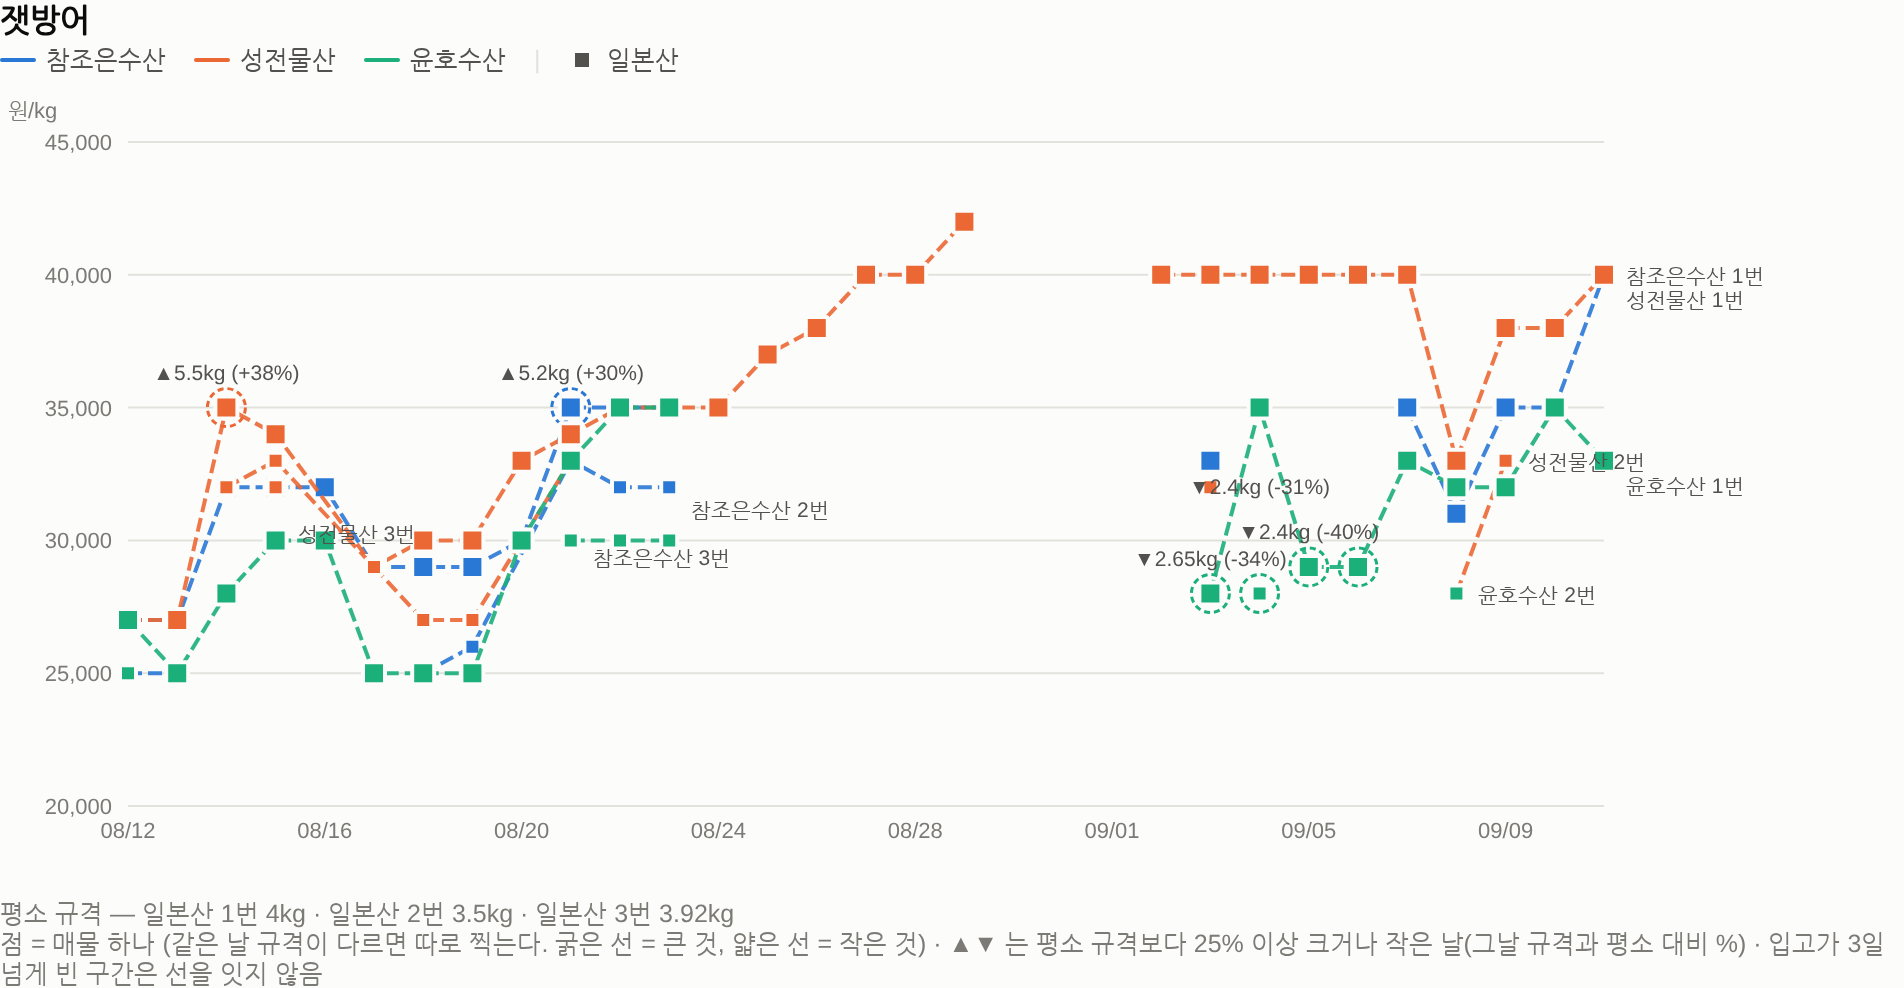
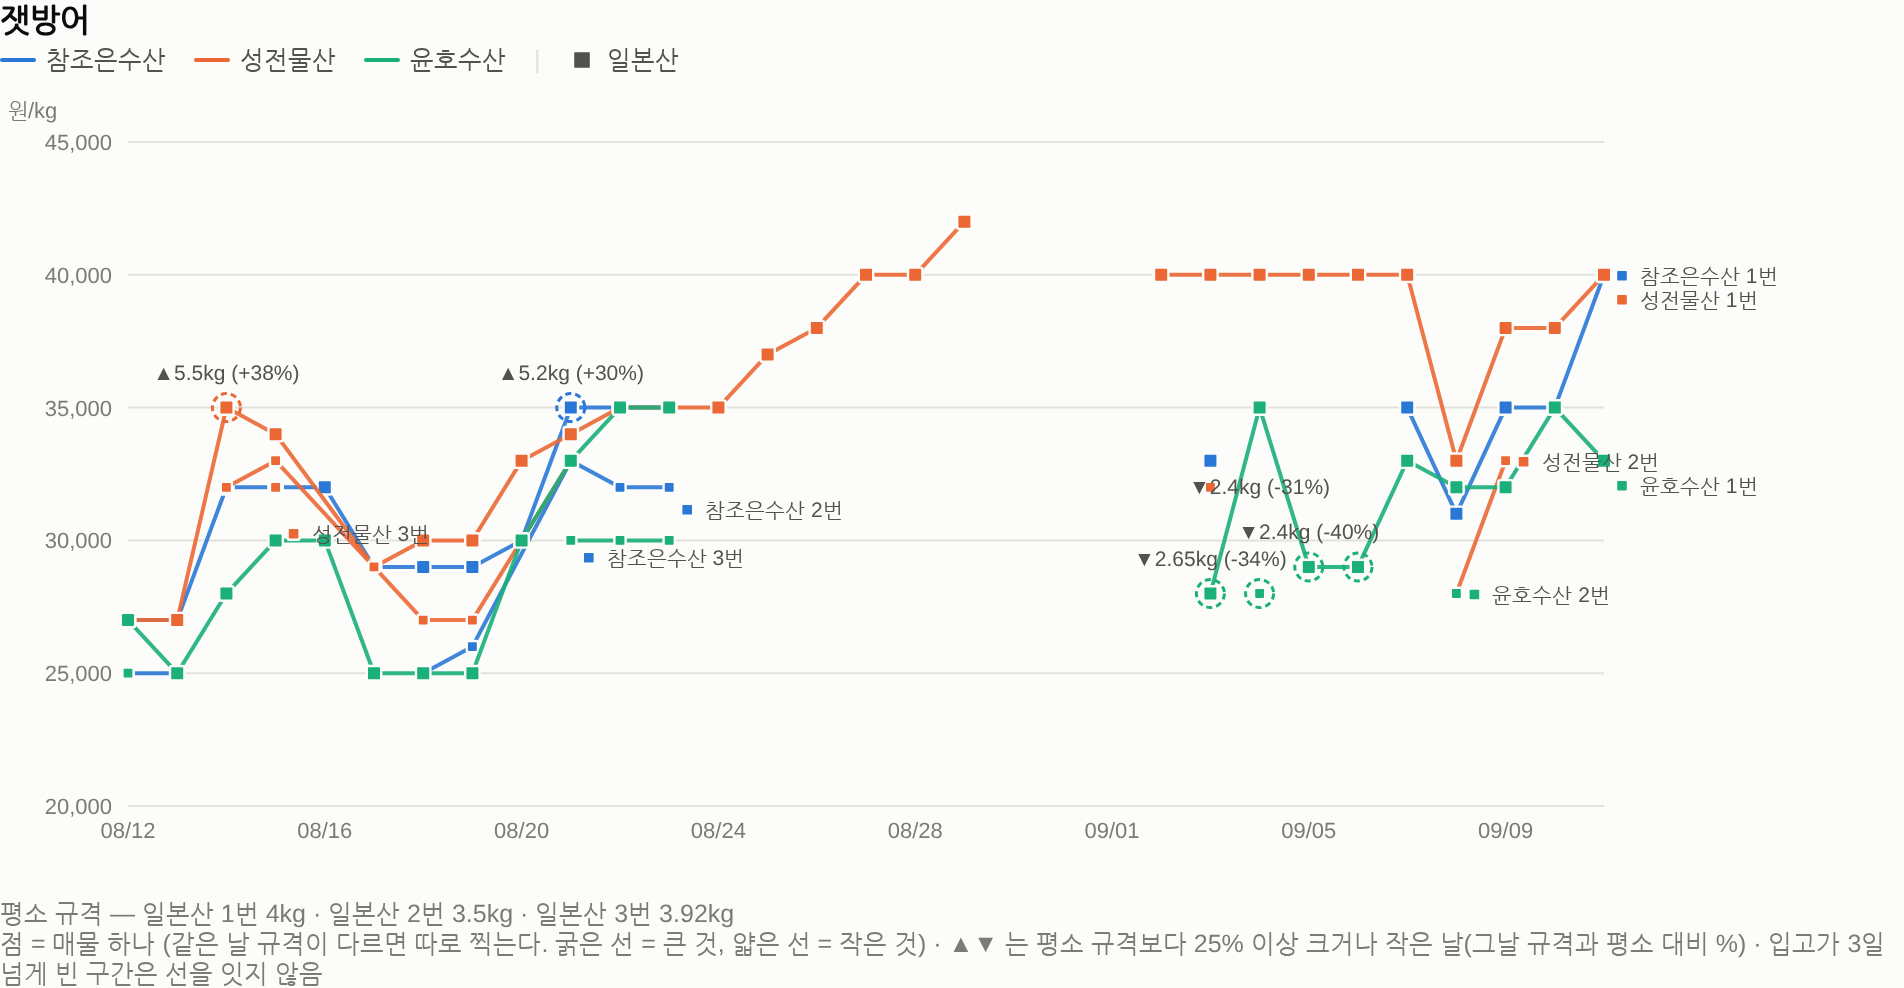
차트 가독성: 점 축소·선 강조

diff --git a/index.html b/index.html
@@ -88,9 +88,9 @@ const won=v=>v.toLocaleString("ko-KR");
 let cur=0;
 
 function mark(x,y,shape,color,hollow,r){
-  r=r||5; const a={fill:hollow?"var(--surface-1)":color,stroke:color,
-    "stroke-width":hollow?2:2, "vector-effect":"non-scaling-stroke"};
-  if(!hollow) a.stroke="var(--surface-1)";      // 2px surface ring on filled marks
+  r=r||3.4; const a={fill:hollow?"var(--surface-1)":color,stroke:color,
+    "stroke-width":hollow?1.6:1.2, "vector-effect":"non-scaling-stroke"};
+  if(!hollow) a.stroke="var(--surface-1)";      // 얇은 서피스 링 - 선이 가려지지 않게
   if(shape==="circle") return el("circle",{cx:x,cy:y,r:r,...a});
   if(shape==="square") return el("rect",{x:x-r,y:y-r,width:2*r,height:2*r,rx:1,...a});
   if(shape==="diamond") return el("polygon",{points:`${x},${y-r-1} ${x+r+1},${y} ${x},${y+r+1} ${x-r-1},${y}`,...a});
@@ -158,9 +158,11 @@ function draw(){
     t.textContent=d.slice(5).replace("-","/");svg.appendChild(t);});
 
   const ends=[], tags=[];
+  const multiOrigin=new Set(lines.map(l=>l.origin)).size>1;
   lines.forEach(L=>{
-    const c=COLOR[L.shop], sh=SHAPE[L.origin]||"circle", dash=DASH[L.origin]||"";
-    const thin=L.rank>0, lw=thin?1.2:2, mr=thin?4:5.5;   // 2번·3번(작은 것)은 가늘게
+    const c=COLOR[L.shop], sh=SHAPE[L.origin]||"circle";
+    const dash=multiOrigin?(DASH[L.origin]||""):"";
+    const thin=L.rank>0, lw=thin?1.5:2.4, mr=thin?2.8:3.6;  // 2번·3번(작은 것)은 가늘게
     let seg=[];
     const flush=()=>{if(seg.length>1){const a={d:"M"+seg.map(p=>xs(p.d)+" "+ys(p.p)).join("L"),
       fill:"none",stroke:c,"stroke-width":2,"stroke-linejoin":"round",opacity:.9};
@@ -172,7 +174,7 @@ function draw(){
     L.pts.forEach(p=>{
       svg.appendChild(mark(xs(p.d),ys(p.p),sh,c,L.wild,mr));
       if(p.flag){
-        svg.appendChild(el("circle",{cx:xs(p.d),cy:ys(p.p),r:9.5,fill:"none",stroke:c,
+        svg.appendChild(el("circle",{cx:xs(p.d),cy:ys(p.p),r:7,fill:"none",stroke:c,
           "stroke-width":1.5,"stroke-dasharray":"3 2"}));
         const tag=p.flag+p.size;
         if(tag!==lastTag) tags.push({x:xs(p.d),y:ys(p.p)-14,
@@ -182,7 +184,7 @@ function draw(){
       } else lastTag=null;
     });
     const last=L.pts[L.pts.length-1];
-    ends.push({L,x:xs(last.d)+11,y:ys(last.p)+4,c,sh});
+    ends.push({L,x:xs(last.d)+18,y:ys(last.p)+4,c,sh,mx:xs(last.d)+9});
   });
   // 규격 라벨끼리 겹치면 위로 밀어 올린다(가로로 가까운 것만 비교)
   const placed=[];
@@ -202,7 +204,11 @@ function draw(){
   // "일본산"을 세 번 적으면 정보가 0이므로 그때는 가게 이름을 적는다.
   const variants=new Set(lines.map(l=>[l.origin,l.wild?"자연산":"",l.region]
     .filter(Boolean).join(" ")));
-  if(!MOBILE) ends.forEach(e=>{const t=el("text",{x:e.x,y:e.y,fill:"var(--text-secondary)","font-size":10.5});
+  // 같은 글씨(예: "국내산 제주 1번")가 가게별로 여러 번 나오므로 색 표식을 앞에 둔다.
+  // 글씨 자체에 색을 입히지 않는 것은 색맹 대비 - 표식이 정체성을 진다.
+  if(!MOBILE) ends.forEach(e=>{
+    svg.appendChild(mark(e.mx,e.y-3.5,e.sh,e.c,e.L.wild,3));
+    const t=el("text",{x:e.x,y:e.y,fill:"var(--text-secondary)","font-size":10.5});
     const desc=[e.L.origin,e.L.wild?"자연산":"",e.L.region].filter(Boolean).join(" ");
     const rk=e.L.nranks>1? " "+(e.L.rank+1)+"번":"";
     t.textContent = (variants.size>1 ? desc : e.L.shop)+rk;
